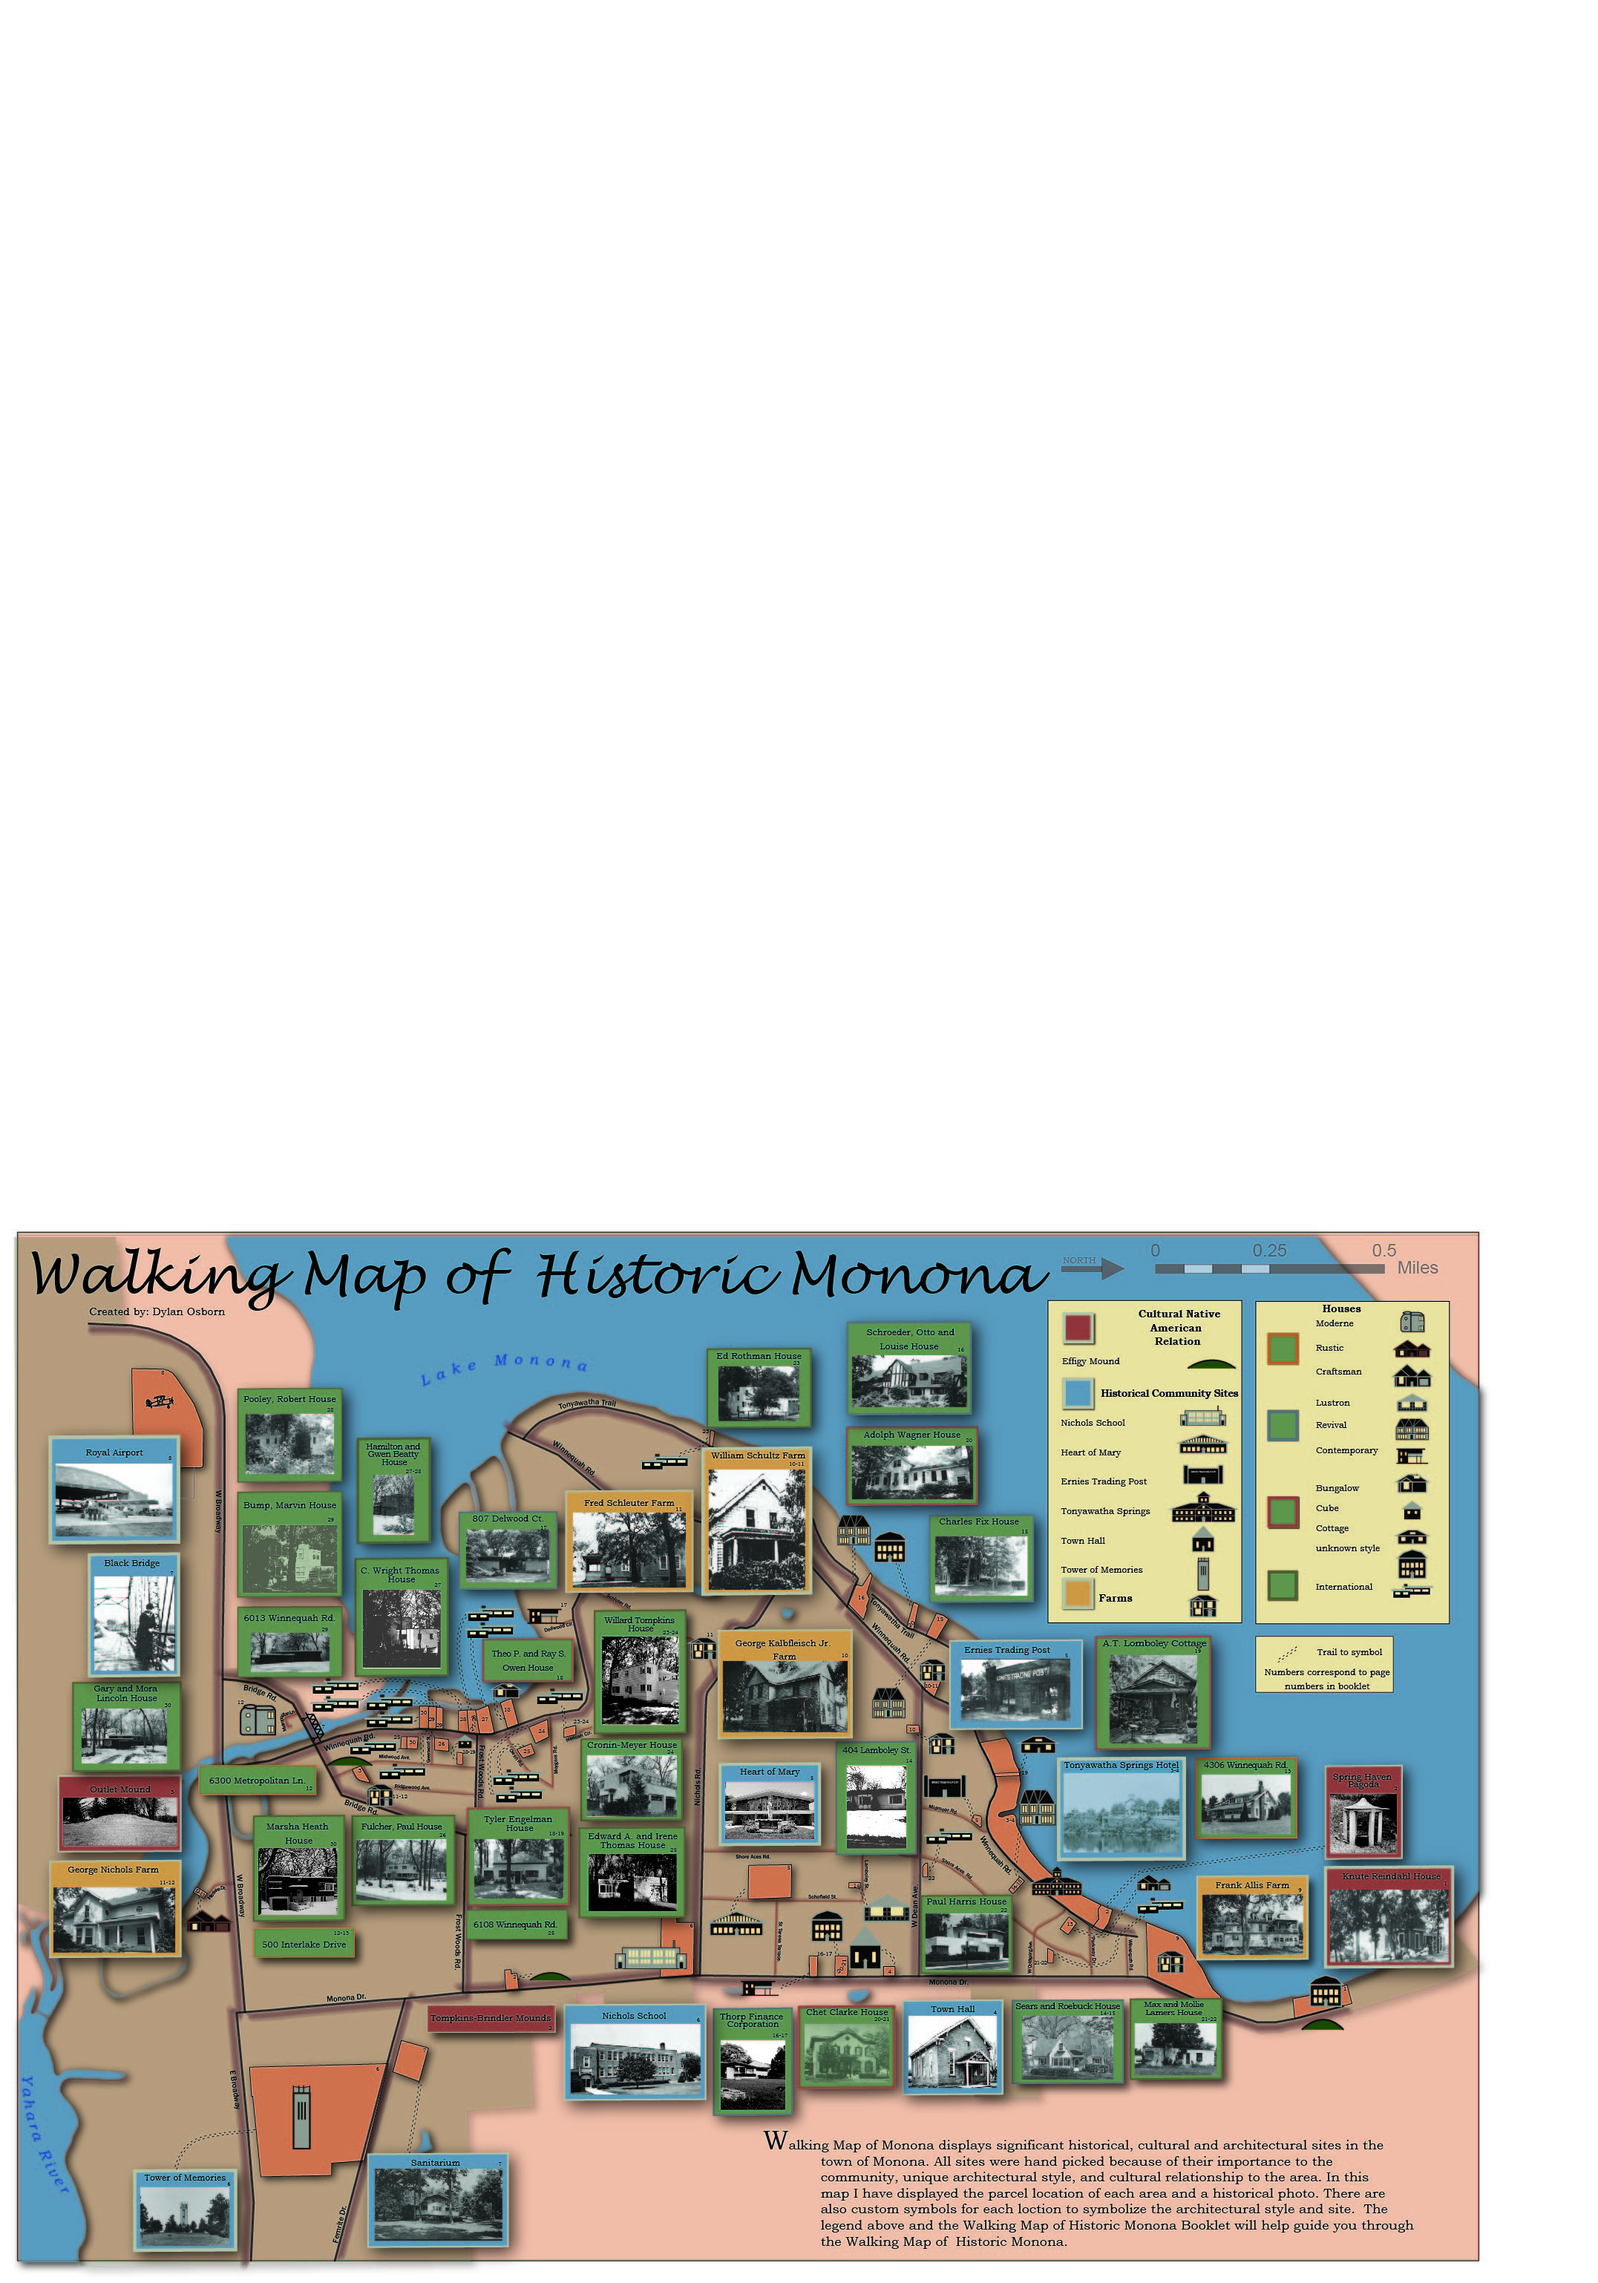
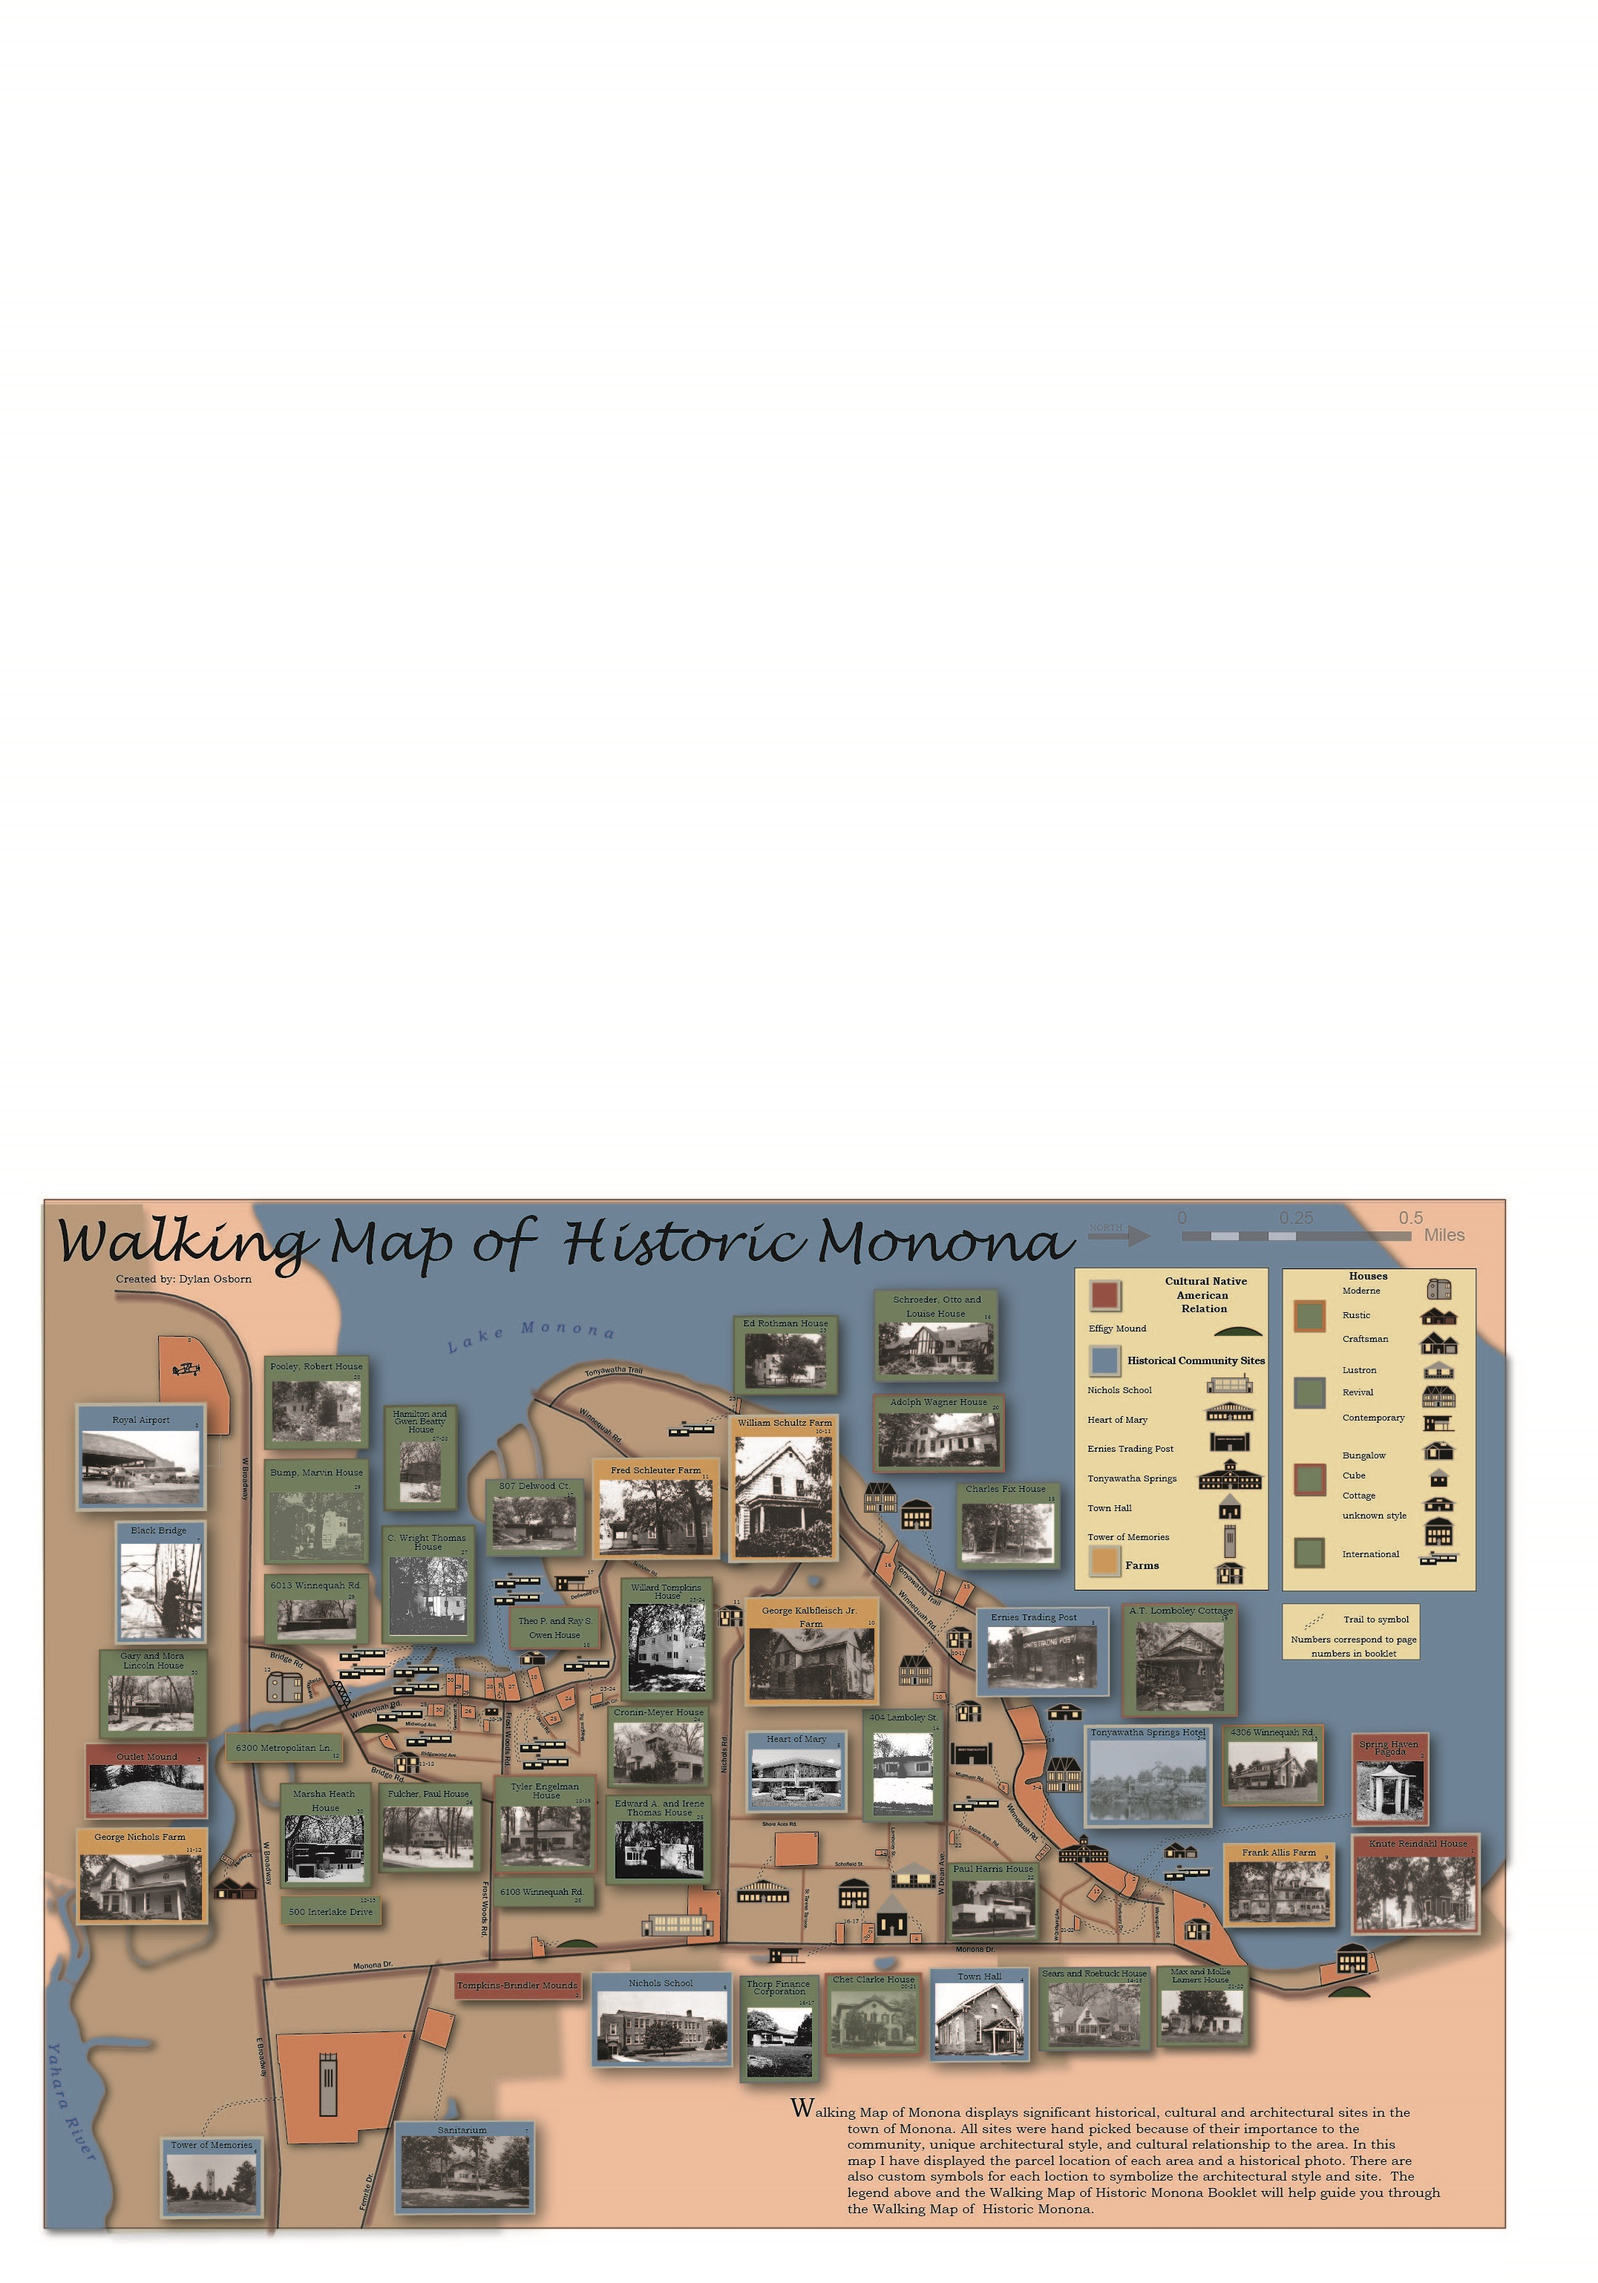
change wm pic size

diff --git a/index.html b/index.html
@@ -26,7 +26,7 @@
             <p><a href="image/Lab3_DylanOsborn.jpg">Choropleth Map</a></p>
             <p><a href="image/lab4_Osborn.jpg">Proportional Map</a></p>
             <p><a href="image/lab5_Osborn.jpg">Weather Map</a></p>
-            <p><a href="image/WalkingMapofHistoricMonona.jpg">Historical Walking Map of Monona Wisconsin</a></p>
+            <p><a href="image/wm.jpg">Historical Walking Map of Monona Wisconsin</a></p>
           <h3>Interactive Maps<h3>
             <p><a href="cali-index">California Indices Map</a></p>
             <p><a href="socialprogress-index">Social Progress Index Map</a></p>
